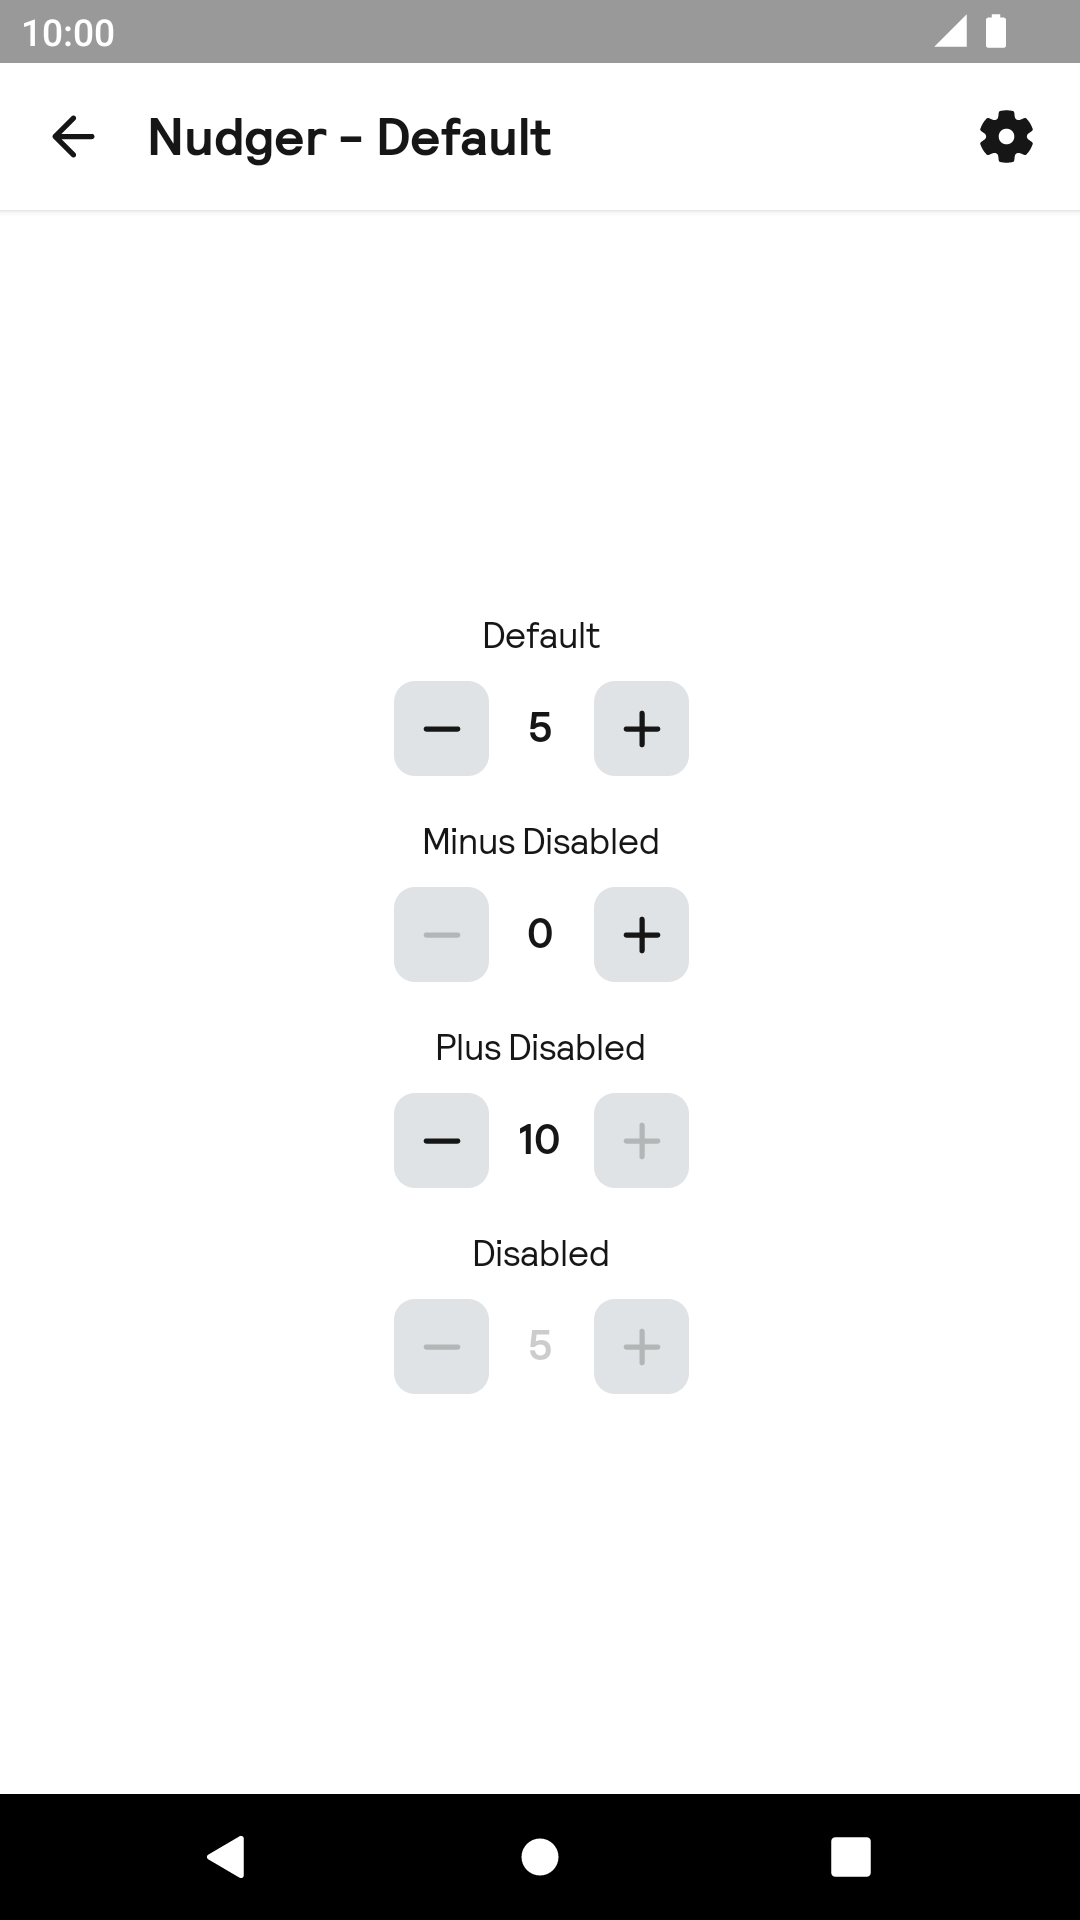
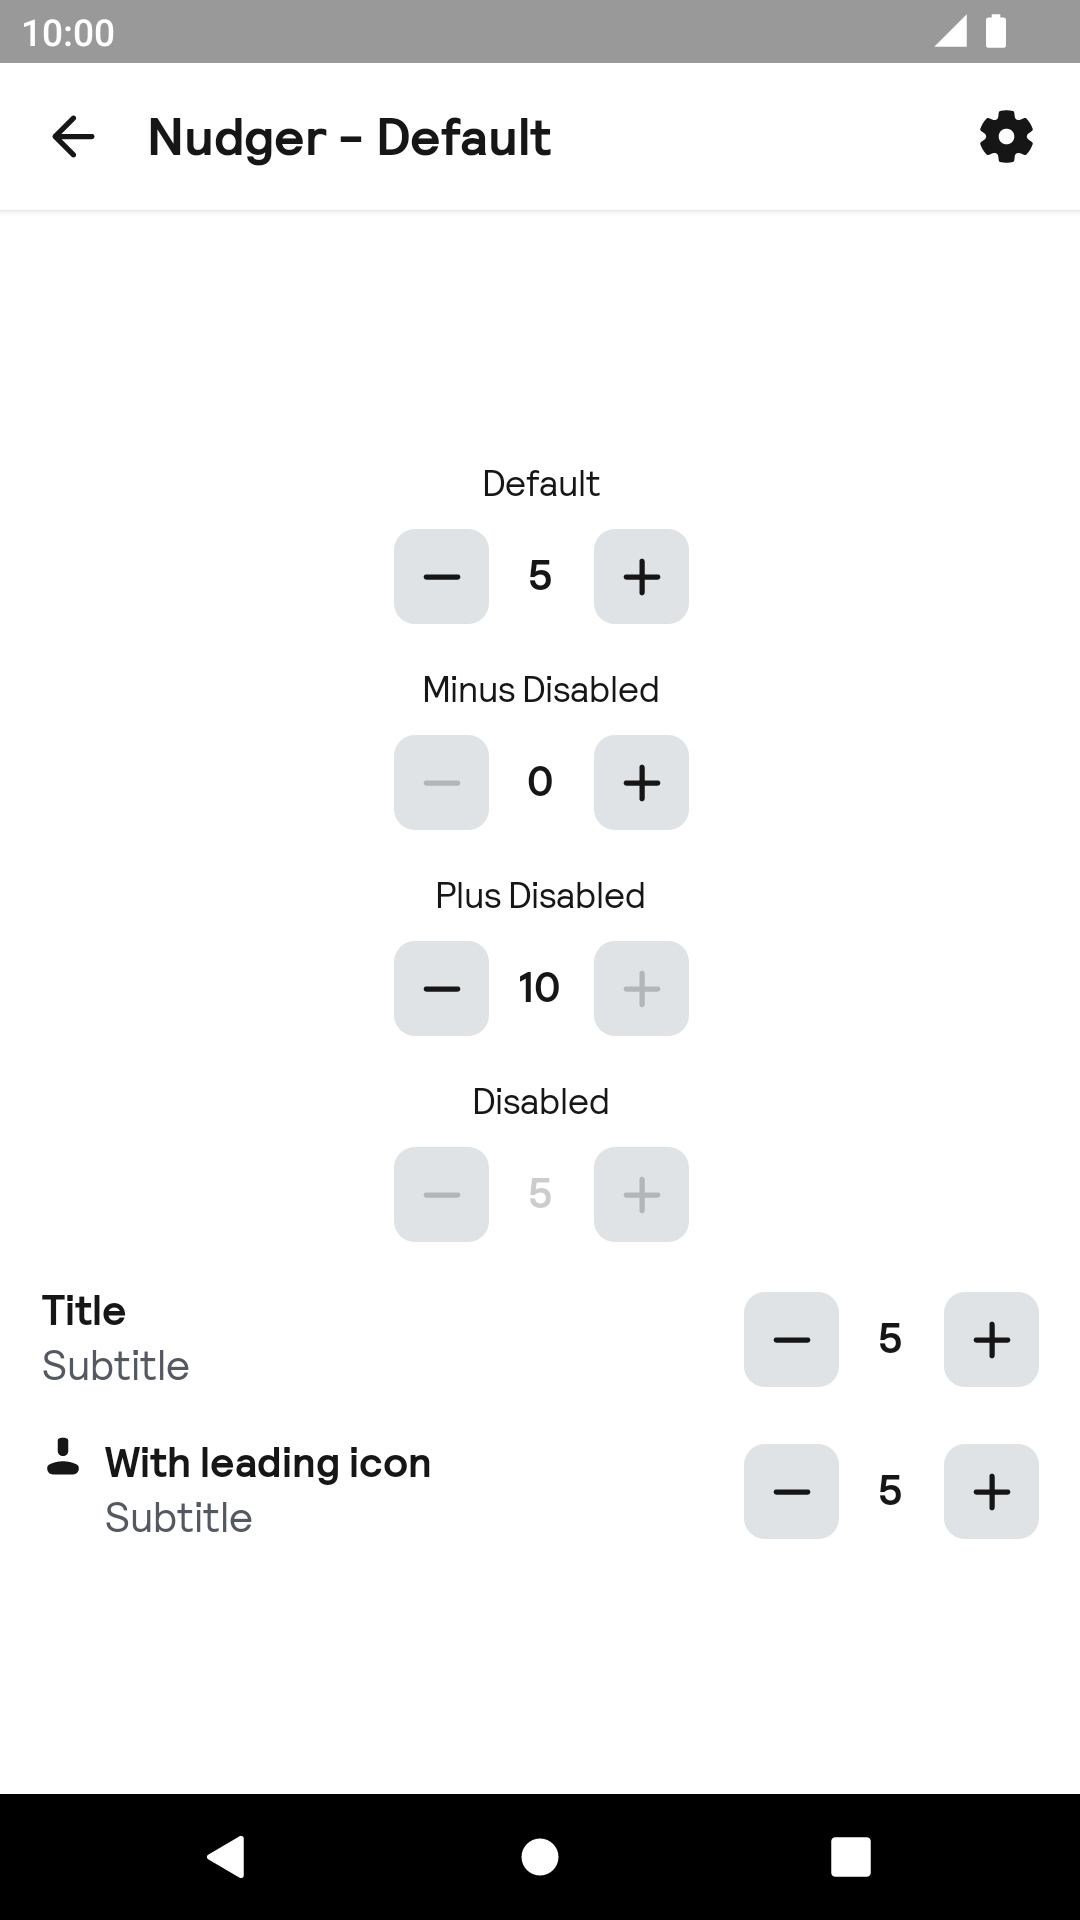
Updated the samples

diff --git a/app/src/main/java/net/skyscanner/backpack/demo/compose/NudgerStory.kt b/app/src/main/java/net/skyscanner/backpack/demo/compose/NudgerStory.kt
@@ -99,7 +99,7 @@ internal fun NudgerExample(
 }
 
 @Composable
-private fun NudgerRowExample(
+internal fun NudgerRowExample(
     modifier: Modifier = Modifier,
     title: String = stringResource(R.string.generic_title),
     subtitle: String? = stringResource(R.string.generic_subtitle),

diff --git a/docs/compose/Nudger/README.md b/docs/compose/Nudger/README.md
@@ -19,6 +19,21 @@ Backpack Compose is available through [Maven Central](https://search.maven.org/a
 Example of a Nudger:
 
 ```Kotlin
+import net.skyscanner.backpack.compose.icon.BpkIcon
+import net.skyscanner.backpack.compose.nudger.BpkNudger
+import net.skyscanner.backpack.compose.tokens.Account
+
+BpkNudger(
+  value = currentValue,
+  onValueChange = { /* update the value */ },
+  min = minValue,
+  max = maxValue,
+)
+```
+
+Example of a Nudger with title, subtitle and icon:
+
+```Kotlin
 import net.skyscanner.backpack.compose.nudger.BpkNudger
 
 BpkNudger(
@@ -26,5 +41,8 @@ BpkNudger(
   onValueChange = { /* update the value */ },
   min = minValue,
   max = maxValue,
+  title = "Title",
+  subtitle = "Subtitle",
+  icon = BpkIcon.Account,
 )
 ```
